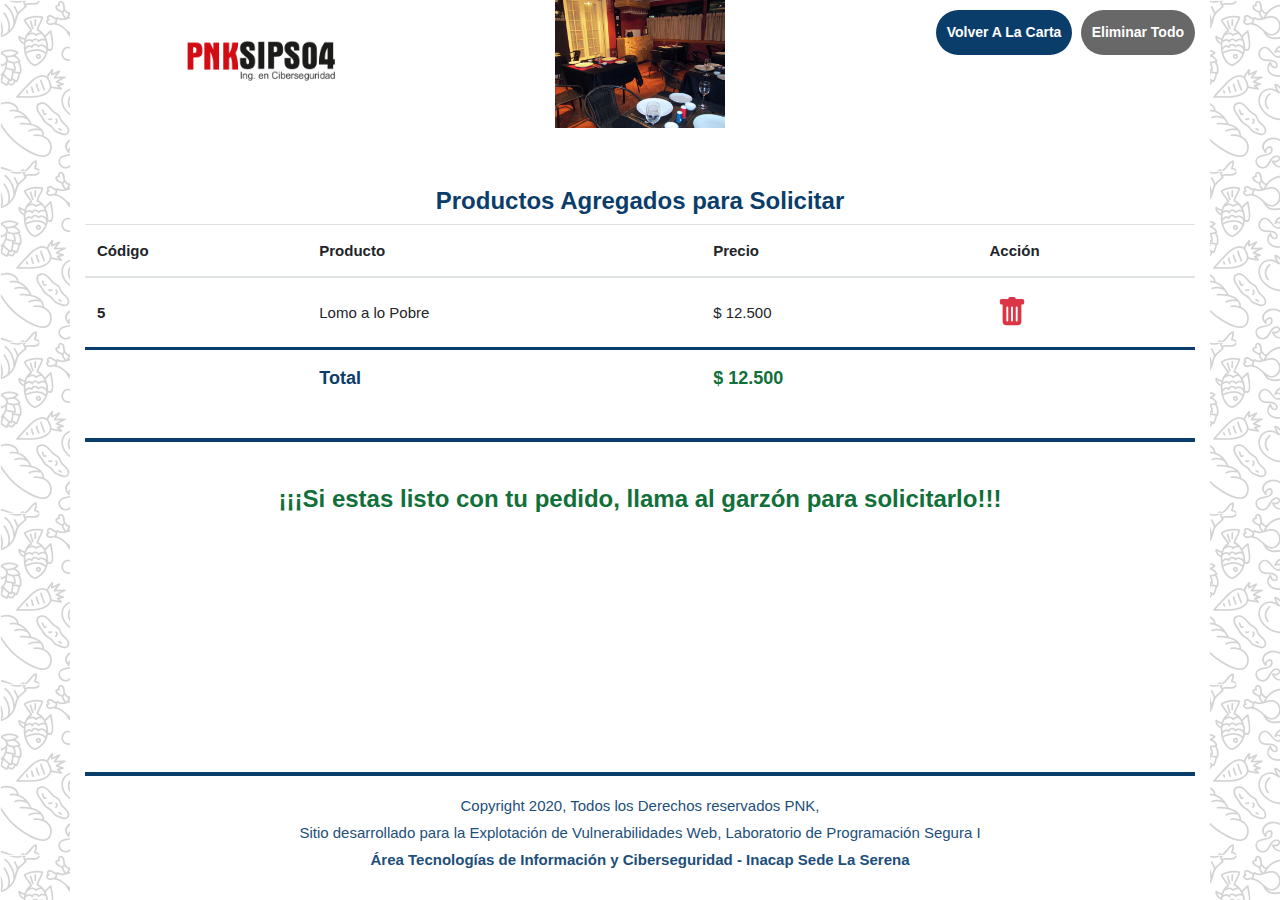
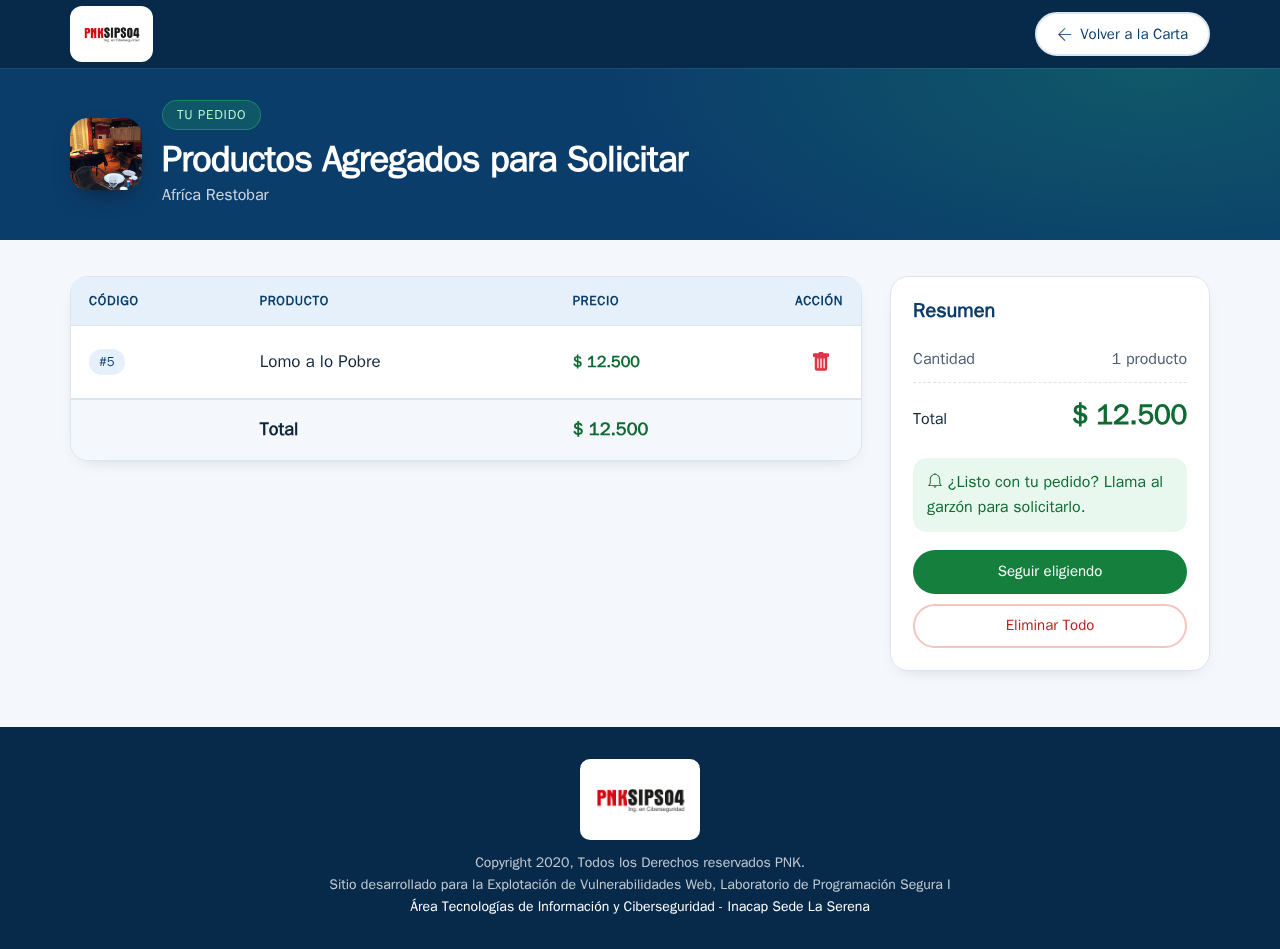
Carrito y pagina de error con el diseño moderno (azul/verde)
- carrito.js: encabezado y pie de la carta, tabla en tarjeta y resumen lateral
- carrito-moderno.css nuevo; carrito.html y error.html ya no cargan style.css ni owl
- paginaError (comun.js) como tarjeta centrada; estilos .cm-error en carta-moderna.css
- capturas QA regeneradas y fotos de productos cargadas en el panel

diff --git a/frontend/public/js/app/carrito.js b/frontend/public/js/app/carrito.js
@@ -1,39 +1,57 @@
 // Pagina del carrito (/restaurantes/:id/carrito): GET /api/restaurantes/:id/carrito; eliminar con DELETE.
+// Diseño moderno (carta-moderna.css + carrito-moderno.css): mismo encabezado y pie que la carta.
 (function () {
   'use strict';
   const { el, agregar, vaciar, moneda, urlSegura, icono, pedir, cargarSesion, paginaError, ridDeUrl } = window.PNK;
   const rid = ridDeUrl();
 
-  function pieCarrito() {
-    return el('footer', { class: 'container contendor' }, el('br'), el('hr'),
-      el('div', { class: 'container' }, el('div', { class: 'footer-bottom row align-items-center text-center' },
-        el('p', { class: 'footer-text m-0 col-md-12' },
-          'Copyright 2020, Todos los Derechos reservados PNK, ', el('br'),
-          'Sitio desarrollado para la Explotación de Vulnerabilidades Web, Laboratorio de Programación Segura I', el('br'),
-          el('b', { text: 'Área Tecnologías de Información y Ciberseguridad - Inacap Sede La Serena' }), el('br'), el('br')))));
+  function encabezado(rest) {
+    return el('header', { class: 'cm-header' }, el('div', { class: 'cm-contenedor cm-header-fila' },
+      el('a', { class: 'cm-logo', href: `/restaurantes/${rid}`, 'aria-label': `Inicio de ${rest.nombre}` },
+        el('img', { src: '/img/logo.png', alt: 'PNK', width: '150', height: '42' })),
+      el('div', { class: 'cm-header-acciones' },
+        el('a', { class: 'cm-btn cm-btn-claro volver', href: `/restaurantes/${rid}` },
+          el('i', { class: 'ti-arrow-left', 'aria-hidden': 'true' }), ' Volver a la Carta'))));
   }
 
-  function filas(items, cuerpo, total) {
-    vaciar(cuerpo);
-    total.textContent = moneda(items.reduce((s, p) => s + p.precio, 0));
+  function pieModerno() {
+    return el('footer', { class: 'cm-pie' }, el('div', { class: 'cm-contenedor' },
+      el('img', { src: '/img/logo.png', alt: 'PNK', width: '120', height: '34', class: 'cm-pie-logo' }),
+      el('p', {}, 'Copyright 2020, Todos los Derechos reservados PNK.', el('br'),
+        'Sitio desarrollado para la Explotación de Vulnerabilidades Web, Laboratorio de Programación Segura I', el('br'),
+        el('b', { text: 'Área Tecnologías de Información y Ciberseguridad - Inacap Sede La Serena' }))));
+  }
+
+  // Pinta las filas, el total, el contador y el aviso del garzon (solo si hay productos).
+  function filas(items, ui) {
+    vaciar(ui.cuerpo);
+    const suma = moneda(items.reduce((s, p) => s + p.precio, 0));
+    ui.total.textContent = suma;
+    ui.totalResumen.textContent = suma;
+    ui.cantidad.textContent = items.length === 1 ? '1 producto' : `${items.length} productos`;
+    ui.listo.classList.toggle('car-oculto', items.length === 0);
     if (items.length === 0) {
-      cuerpo.appendChild(el('tr', {}, el('td', { colspan: 4, class: 'vacio', text: 'Tu carrito está vacío. Vuelve a la carta y elige tus productos.' })));
+      ui.cuerpo.appendChild(el('tr', { class: 'car-fila-vacia' }, el('td', { colspan: 4 },
+        el('div', { class: 'car-vacio' },
+          el('i', { class: 'ti-shopping-cart car-vacio-icono', 'aria-hidden': 'true' }),
+          el('p', { class: 'vacio', text: 'Tu carrito está vacío. Vuelve a la carta y elige tus productos.' }),
+          el('a', { class: 'cm-btn cm-btn-verde', href: `/restaurantes/${rid}`, text: 'Ver la carta' })))));
     }
     for (const p of items) {
-      cuerpo.appendChild(el('tr', {},
-        el('th', { scope: 'row', text: p.id }),
-        el('td', { text: p.nombre }),
-        el('td', { text: moneda(p.precio) }),
-        el('td', {}, el('a', {
-          class: 'elim', id: String(p.posicion), href: '#', 'aria-label': `Eliminar ${p.nombre}`,
-          onclick: async (e) => { e.preventDefault(); await pedir('DELETE', `/api/restaurantes/${rid}/carrito/items/${p.posicion}`); recargar(cuerpo, total); },
+      ui.cuerpo.appendChild(el('tr', {},
+        el('th', { scope: 'row', class: 'car-codigo' }, el('span', { class: 'car-chip', text: `#${p.id}` })),
+        el('td', { class: 'car-nombre', text: p.nombre }),
+        el('td', { class: 'car-precio', text: moneda(p.precio) }),
+        el('td', { class: 'car-accion' }, el('a', {
+          class: 'elim car-eliminar', id: String(p.posicion), href: '#', role: 'button', 'aria-label': `Eliminar ${p.nombre}`,
+          onclick: async (e) => { e.preventDefault(); await pedir('DELETE', `/api/restaurantes/${rid}/carrito/items/${p.posicion}`); recargar(ui); },
         }, icono('basura')))));
     }
   }
 
-  async function recargar(cuerpo, total) {
+  async function recargar(ui) {
     const r = await pedir('GET', `/api/restaurantes/${rid}/carrito`);
-    if (r.ok) filas(r.datos.items, cuerpo, total);
+    if (r.ok) filas(r.datos.items, ui);
   }
 
   async function iniciar() {
@@ -43,37 +61,52 @@
     if (r.status === 404) return paginaError('Restaurante no encontrado');
     if (!r.ok) return paginaError('Ha ocurrido un error. Intente nuevamente más tarde.');
     const rest = r.datos.restaurante;
-    document.title = rest.nombre;
+    document.title = `Tu pedido · ${rest.nombre}`;
 
-    const cuerpo = el('tbody');
-    const total = el('td', { class: 'price-tag', text: moneda(0) });
-    const limpiar = el('a', {
-      class: 'limpiar', href: '#', text: 'Eliminar Todo',
-      onclick: async (e) => { e.preventDefault(); await pedir('DELETE', `/api/restaurantes/${rid}/carrito`); recargar(cuerpo, total); },
+    const ui = {
+      cuerpo: el('tbody'),
+      total: el('td', { class: 'price-tag car-total', text: moneda(0) }),
+      totalResumen: el('span', { class: 'car-resumen-total', text: moneda(0) }),
+      cantidad: el('span', { class: 'car-cantidad', text: '0 productos' }),
+      listo: el('p', { class: 'car-listo' }, el('i', { class: 'ti-bell', 'aria-hidden': 'true' }),
+        ' ¿Listo con tu pedido? Llama al garzón para solicitarlo.'),
+    };
+    ui.limpiar = el('a', {
+      class: 'limpiar cm-btn car-btn-limpiar', href: '#', text: 'Eliminar Todo',
+      onclick: async (e) => { e.preventDefault(); await pedir('DELETE', `/api/restaurantes/${rid}/carrito`); recargar(ui); },
     });
 
+    const titulo = el('section', { class: 'car-titulo' }, el('div', { class: 'cm-contenedor car-titulo-fila' },
+      el('img', { class: 'car-foto-rest', src: urlSegura(rest.foto, '/img/logo_empresa_comodin.png'), alt: '', width: '72', height: '72' }),
+      el('div', {},
+        el('span', { class: 'cm-chip', text: 'Tu pedido' }),
+        el('h1', { class: 'car-h1', text: 'Productos Agregados para Solicitar' }),
+        el('p', { class: 'car-sub', text: rest.nombre }))));
+
+    const tabla = el('div', { class: 'car-tarjeta' }, el('div', { class: 'table-responsive' },
+      el('table', { class: 'table car-tabla' },
+        el('thead', {}, el('tr', {},
+          el('th', { scope: 'col', text: 'Código' }), el('th', { scope: 'col', text: 'Producto' }),
+          el('th', { scope: 'col', text: 'Precio' }), el('th', { scope: 'col', class: 'car-accion', text: 'Acción' }))),
+        ui.cuerpo,
+        el('tfoot', {}, el('tr', { class: 'fila-total' }, el('td', {}), el('th', { scope: 'row', text: 'Total' }), ui.total, el('td', {}))))));
+
+    const resumen = el('aside', { class: 'car-resumen', 'aria-label': 'Resumen del pedido' },
+      el('h2', { class: 'car-resumen-titulo', text: 'Resumen' }),
+      el('div', { class: 'car-resumen-linea' }, el('span', { text: 'Cantidad' }), ui.cantidad),
+      el('div', { class: 'car-resumen-linea car-resumen-linea-total' }, el('span', { text: 'Total' }), ui.totalResumen),
+      ui.listo,
+      el('div', { class: 'car-resumen-acciones' },
+        el('a', { class: 'cm-btn cm-btn-verde', href: `/restaurantes/${rid}`, text: 'Seguir eligiendo' }),
+        ui.limpiar));
+
     agregar(vaciar(document.getElementById('app')), [
-      el('section', {}, el('div', { class: 'container contendor' }, el('div', { class: 'row' },
-        el('div', { class: 'col-lg-4' }, el('div', { class: 'centrado' },
-          el('div', { class: 'media' }, el('img', { class: 'logosintituciones', src: '/img/logo.png', width: '170px', alt: '' })), el('br'), el('br'))),
-        el('div', { class: 'col-lg-4' }, el('div', { class: 'centrado' },
-          el('img', { class: 'logosintituciones', src: urlSegura(rest.foto, '/img/logo_empresa_comodin.png'), width: '170px', alt: '' }))),
-        el('div', { class: 'col-lg-4' }, el('div', { class: 'carro' }, el('div', { class: 'media float-right' },
-          el('a', { class: 'volver', href: `/restaurantes/${rid}`, text: 'Volver a la Carta' }), '  ', limpiar)))))),
-      el('section', {}, el('div', { class: 'container contendor' }, el('div', { class: 'row' }, el('div', { class: 'col-lg-12' },
-        el('h4', { class: 'intro-title centrado', text: 'Productos Agregados para Solicitar' }))))),
-      el('section', {}, el('div', { class: 'container contendor' }, el('div', { class: 'row' }, el('div', { class: 'col-lg-12' },
-        el('div', { class: 'table-responsive' }, el('table', { class: 'table table-hover table-lg' },
-          el('thead', {}, el('tr', {},
-            el('th', { scope: 'col', text: 'Código' }), el('th', { scope: 'col', text: 'Producto' }),
-            el('th', { scope: 'col', text: 'Precio' }), el('th', { scope: 'col', text: 'Acción' }))),
-          cuerpo,
-          el('tfoot', {}, el('tr', { class: 'fila-total' }, el('td', {}), el('th', { scope: 'row', text: 'Total' }), total, el('td', {}))))),
-        el('div', {}, el('hr'), el('br'),
-          el('h3', { class: 'price-tag text-center', text: '¡¡¡Si estas listo con tu pedido, llama al garzón para solicitarlo!!!' })))))),
-      pieCarrito(),
+      encabezado(rest),
+      titulo,
+      el('main', { class: 'cm-seccion car-main' }, el('div', { class: 'cm-contenedor car-grilla' }, tabla, resumen)),
+      pieModerno(),
     ]);
-    filas(r.datos.items, cuerpo, total);
+    filas(r.datos.items, ui);
     return null;
   }
 

diff --git a/frontend/public/css/carrito-moderno.css b/frontend/public/css/carrito-moderno.css
@@ -1,0 +1,162 @@
+/* =====================================================================================================
+   CARRITO MODERNO (nov-2026). Se carga DESPUES de carta-moderna.css y reutiliza sus tokens (--cm-*),
+   botones (.cm-btn), encabezado (.cm-header), chip (.cm-chip) y pie (.cm-pie). Aqui solo lo propio del carrito.
+   ===================================================================================================== */
+
+/* ---------- Franja de titulo ---------- */
+.car-titulo {
+	background:
+		radial-gradient(900px 400px at 90% 0%, rgba(34, 197, 94, 0.2), transparent 60%),
+		var(--cm-azul);
+	color: #fff;
+	padding: 32px 0;
+}
+.car-titulo-fila { display: flex; align-items: center; gap: 20px; }
+.car-foto-rest {
+	flex: 0 0 auto;
+	width: 72px;
+	height: 72px;
+	object-fit: cover;
+	border-radius: 18px;
+	background: #fff;
+	box-shadow: 0 10px 24px -10px rgba(0, 0, 0, 0.5);
+}
+.car-h1 {
+	font-size: clamp(24px, 3.6vw, 36px);
+	font-weight: 900;
+	letter-spacing: -0.02em;
+	margin: 8px 0 2px;
+	color: #fff;
+	text-wrap: balance;
+}
+.car-sub { margin: 0; color: rgba(255, 255, 255, 0.8); }
+
+/* ---------- Grilla: tabla + resumen ---------- */
+.car-main { padding-top: 36px; flex: 1 0 auto; }
+.car-grilla {
+	display: grid;
+	grid-template-columns: minmax(0, 1fr) 320px;
+	gap: 28px;
+	align-items: start;
+}
+@media (max-width: 899.98px) { .car-grilla { grid-template-columns: 1fr; } }
+
+.car-tarjeta,
+.car-resumen {
+	background: #fff;
+	border: 1px solid var(--cm-borde);
+	border-radius: var(--cm-radio);
+	box-shadow: 0 6px 20px -14px rgba(8, 42, 74, 0.35);
+}
+.car-tarjeta { overflow: hidden; }
+.car-tarjeta .table-responsive { margin: 0; }
+
+/* ---------- Tabla ---------- */
+.car-tabla { margin: 0; color: var(--cm-texto); }
+.car-tabla thead th {
+	background: var(--cm-azul-100);
+	color: var(--cm-azul);
+	font-size: 13px;
+	font-weight: 800;
+	letter-spacing: 0.05em;
+	text-transform: uppercase;
+	border: 0;
+	padding: 14px 18px;
+}
+.car-tabla td,
+.car-tabla tbody th {
+	vertical-align: middle;
+	border-top: 1px solid var(--cm-borde);
+	padding: 14px 18px;
+}
+.car-tabla tbody tr { transition: background-color 0.18s var(--cm-ease); }
+.car-tabla tbody tr:hover { background: var(--cm-fondo); }
+.car-chip {
+	display: inline-block;
+	padding: 3px 10px;
+	border-radius: 999px;
+	background: var(--cm-azul-100);
+	color: var(--cm-azul);
+	font-size: 13px;
+	font-weight: 700;
+}
+.car-nombre { font-weight: 700; font-size: 17px; }
+.car-precio { font-weight: 800; color: var(--cm-verde-precio); white-space: nowrap; }
+.car-accion { text-align: right; width: 1%; white-space: nowrap; }
+.car-eliminar {
+	display: inline-grid;
+	place-items: center;
+	width: 44px;
+	height: 44px;
+	border-radius: 12px;
+	transition: background-color 0.18s var(--cm-ease), transform 0.18s var(--cm-ease);
+}
+.car-eliminar svg { width: 20px; height: 20px; }
+.car-eliminar:hover { background: #fde8e8; }
+.car-eliminar:active { transform: scale(0.94); }
+.car-eliminar:focus-visible { outline: 3px solid #ffbe0f; outline-offset: 2px; }
+
+.car-tabla tfoot .fila-total th,
+.car-tabla tfoot .fila-total td {
+	border-top: 2px solid var(--cm-borde);
+	background: var(--cm-fondo);
+	font-size: 18px;
+	font-weight: 800;
+	padding: 16px 18px;
+}
+.car-total.price-tag { color: var(--cm-verde-precio); font-size: 22px; font-weight: 900; }
+
+/* Carrito vacio */
+.car-fila-vacia:hover { background: transparent !important; }
+.car-vacio {
+	display: flex;
+	flex-direction: column;
+	align-items: center;
+	gap: 6px;
+	padding: 36px 12px;
+	text-align: center;
+}
+.car-vacio-icono { font-size: 44px; color: var(--cm-azul-600); opacity: 0.6; }
+.car-vacio .vacio { margin: 6px 0 12px; }
+
+/* ---------- Resumen lateral ---------- */
+.car-resumen { padding: 22px; position: sticky; top: 20px; }
+.car-resumen-titulo { font-size: 20px; font-weight: 800; color: var(--cm-azul); margin: 0 0 14px; }
+.car-resumen-linea {
+	display: flex;
+	justify-content: space-between;
+	align-items: baseline;
+	padding: 10px 0;
+	border-bottom: 1px dashed var(--cm-borde);
+	color: var(--cm-texto-suave);
+}
+.car-resumen-linea-total { border-bottom: 0; color: var(--cm-texto); font-weight: 700; }
+.car-resumen-total { font-size: 28px; font-weight: 900; color: var(--cm-verde-precio); letter-spacing: -0.01em; }
+.car-listo {
+	margin: 12px 0 18px;
+	padding: 12px 14px;
+	border-radius: 14px;
+	background: #e9f8ef;
+	color: var(--cm-verde-precio);
+	font-weight: 700;
+}
+.car-resumen-acciones { display: flex; flex-direction: column; gap: 10px; }
+.car-resumen-acciones .cm-btn { width: 100%; }
+.car-btn-limpiar { background: #fff; color: #b42318; border-color: #f3c4c0; }
+.car-btn-limpiar:hover { background: #fde8e8; color: #912018; border-color: #e7a19b; }
+.car-oculto { display: none !important; }
+
+@media (max-width: 599.98px) {
+	.car-titulo { padding: 22px 0; }
+	.car-foto-rest { width: 56px; height: 56px; border-radius: 14px; }
+	.car-tabla thead th:first-child,
+	.car-tabla tbody th.car-codigo,
+	.car-tabla tfoot .fila-total td:first-child { display: none; }
+	.car-tabla td, .car-tabla tbody th, .car-tabla thead th { padding: 12px; }
+	.car-nombre { font-size: 15px; }
+	.car-resumen { position: static; }
+}
+
+@media (prefers-reduced-motion: reduce) {
+	.car-tabla tbody tr, .car-eliminar { transition: none !important; }
+}

diff --git a/frontend/public/carrito.html b/frontend/public/carrito.html
@@ -6,16 +6,14 @@
   <title>Productos seleccionados</title>
   <link rel="stylesheet" href="/vendors/bootstrap/bootstrap.min.css" integrity="sha384-xOolHFLEh07PJGoPkLv1IbcEPTNtaed2xpHsD9ESMhqIYd0nLMwNLD69Npy4HI+N">
   <link rel="stylesheet" href="/vendors/themify-icons/themify-icons.css" integrity="sha384-WvewGOCiLQQeyX74sRin+1vJVwXiQljXEll4oRenlaV/JugxUgA+KejVo+KeVA/8">
-  <link rel="stylesheet" href="/vendors/owl-carousel/owl.theme.default.min.css" integrity="sha384-8/AzSKHReNfZT4HGFTyRyJ1jXhhx/ZMnmX08Cy6TeaKWj0Vzho0AabG06C8mh02i">
-  <link rel="stylesheet" href="/vendors/owl-carousel/owl.carousel.min.css" integrity="sha384-kcNNzf7wI8//ZkNUaDd5JwxLoFaBgkj9Z4O4NwtuX9Lkmsz0HoITOxJsGkYxDuyG">
-  <link rel="stylesheet" href="/css/style.css">
+  <link rel="stylesheet" href="/css/carta-moderna.css">
+  <link rel="stylesheet" href="/css/carrito-moderno.css">
 </head>
 <body>
   <div id="app" aria-live="polite"></div>
 
   <script src="/vendors/jquery/jquery-3.7.1.min.js" integrity="sha384-1H217gwSVyLSIfaLxHbE7dRb3v4mYCKbpQvzx0cegeju1MVsGrX5xXxAvs/HgeFs"></script>
   <script src="/vendors/bootstrap/bootstrap.bundle.min.js" integrity="sha384-Fy6S3B9q64WdZWQUiU+q4/2Lc9npb8tCaSX9FK7E8HnRr0Jz8D6OP9dO5Vg3Q9ct"></script>
-  <script src="/vendors/owl-carousel/owl.carousel.min.js" integrity="sha384-l/y5WJTphApmSlx76Ev6k4G3zxu/+19CVvn9OTKI7gs4Yu5Hm8mjpdtdr5oyhnNo"></script>
   <script src="/js/app/comun.js"></script>
   <script src="/js/app/carrito.js"></script>
 </body>

diff --git a/frontend/public/error.html b/frontend/public/error.html
@@ -6,16 +6,13 @@
   <title>Página no encontrada</title>
   <link rel="stylesheet" href="/vendors/bootstrap/bootstrap.min.css" integrity="sha384-xOolHFLEh07PJGoPkLv1IbcEPTNtaed2xpHsD9ESMhqIYd0nLMwNLD69Npy4HI+N">
   <link rel="stylesheet" href="/vendors/themify-icons/themify-icons.css" integrity="sha384-WvewGOCiLQQeyX74sRin+1vJVwXiQljXEll4oRenlaV/JugxUgA+KejVo+KeVA/8">
-  <link rel="stylesheet" href="/vendors/owl-carousel/owl.theme.default.min.css" integrity="sha384-8/AzSKHReNfZT4HGFTyRyJ1jXhhx/ZMnmX08Cy6TeaKWj0Vzho0AabG06C8mh02i">
-  <link rel="stylesheet" href="/vendors/owl-carousel/owl.carousel.min.css" integrity="sha384-kcNNzf7wI8//ZkNUaDd5JwxLoFaBgkj9Z4O4NwtuX9Lkmsz0HoITOxJsGkYxDuyG">
-  <link rel="stylesheet" href="/css/style.css">
+  <link rel="stylesheet" href="/css/carta-moderna.css">
 </head>
 <body>
   <div id="app" aria-live="polite"></div>
 
   <script src="/vendors/jquery/jquery-3.7.1.min.js" integrity="sha384-1H217gwSVyLSIfaLxHbE7dRb3v4mYCKbpQvzx0cegeju1MVsGrX5xXxAvs/HgeFs"></script>
   <script src="/vendors/bootstrap/bootstrap.bundle.min.js" integrity="sha384-Fy6S3B9q64WdZWQUiU+q4/2Lc9npb8tCaSX9FK7E8HnRr0Jz8D6OP9dO5Vg3Q9ct"></script>
-  <script src="/vendors/owl-carousel/owl.carousel.min.js" integrity="sha384-l/y5WJTphApmSlx76Ev6k4G3zxu/+19CVvn9OTKI7gs4Yu5Hm8mjpdtdr5oyhnNo"></script>
   <script src="/js/app/comun.js"></script>
   <script src="/js/app/error.js"></script>
 </body>

diff --git a/frontend/public/js/app/comun.js b/frontend/public/js/app/comun.js
@@ -145,11 +145,11 @@
   function paginaError(titulo) {
     document.title = titulo;
     const app = vaciar(document.getElementById('app'));
-    agregar(app, [el('div', { class: 'container contendor text-center' },
-      el('br'), el('br'),
-      el('img', { class: 'logosintituciones', src: '/img/logo.png', width: '170px', alt: '' }),
-      el('h1', { class: 'mt-4', text: titulo }),
-      el('p', {}, el('a', { href: '/', text: 'Volver al inicio' })))]);
+    agregar(app, [el('main', { class: 'cm-error' }, el('div', { class: 'cm-error-caja' },
+      el('img', { class: 'cm-pie-logo', src: '/img/logo.png', width: '150', height: '42', alt: 'PNK' }),
+      el('h1', { text: titulo }),
+      el('p', { text: 'Revisa la dirección o vuelve a la carta.' }),
+      el('a', { class: 'cm-btn cm-btn-verde', href: '/', text: 'Volver al inicio' })))]);
   }
 
   // Id del restaurante desde la URL (/restaurantes/:id[/carrito]); el backend lo vuelve a validar.

diff --git a/frontend/public/css/carta-moderna.css b/frontend/public/css/carta-moderna.css
@@ -597,3 +597,23 @@ a.button.cm-btn { padding-top: 0; padding-bottom: 0; text-transform: none; }
 	line-height: 1;
 }
 @media (prefers-reduced-motion: reduce) { .cm-portada img { transition: none; } }
+
+/* ---------- Pagina de error (comun.js paginaError) ---------- */
+.cm-error {
+	flex: 1 0 auto;
+	display: grid;
+	place-items: center;
+	padding: 48px 20px;
+	text-align: center;
+}
+.cm-error-caja {
+	background: #fff;
+	border: 1px solid var(--cm-borde);
+	border-radius: var(--cm-radio);
+	box-shadow: var(--cm-sombra);
+	padding: 36px 32px;
+	max-width: 460px;
+	width: 100%;
+}
+.cm-error-caja h1 { font-size: clamp(24px, 3.6vw, 32px); font-weight: 900; color: var(--cm-azul); margin: 18px 0 10px; }
+.cm-error-caja p { color: var(--cm-texto-suave); margin: 0 0 20px; }
